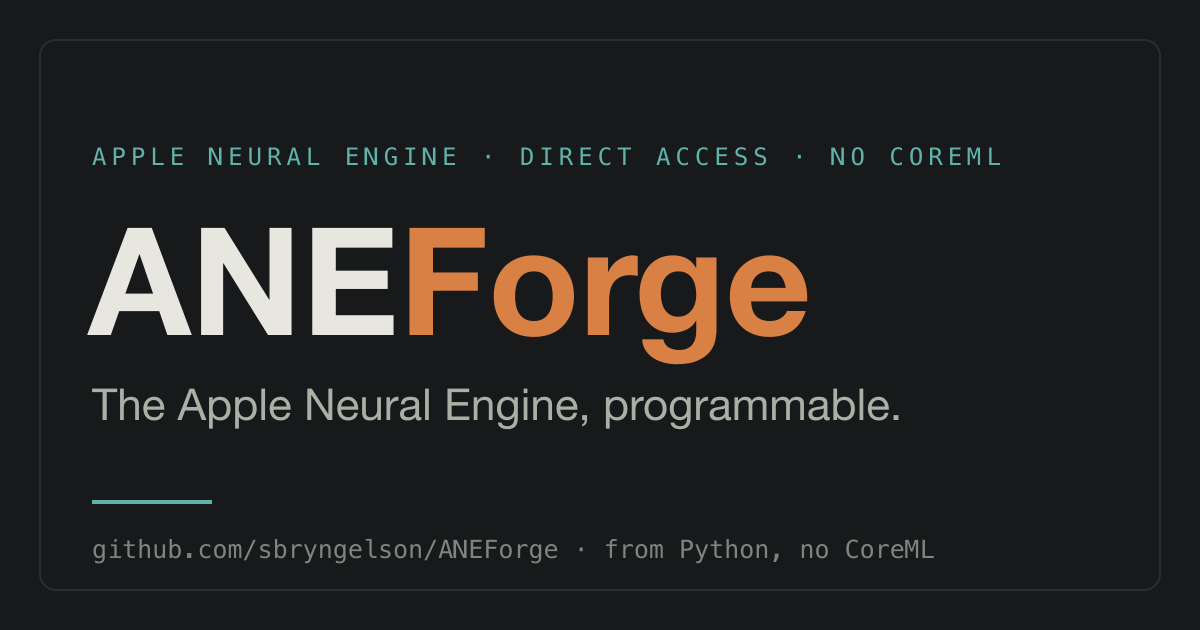
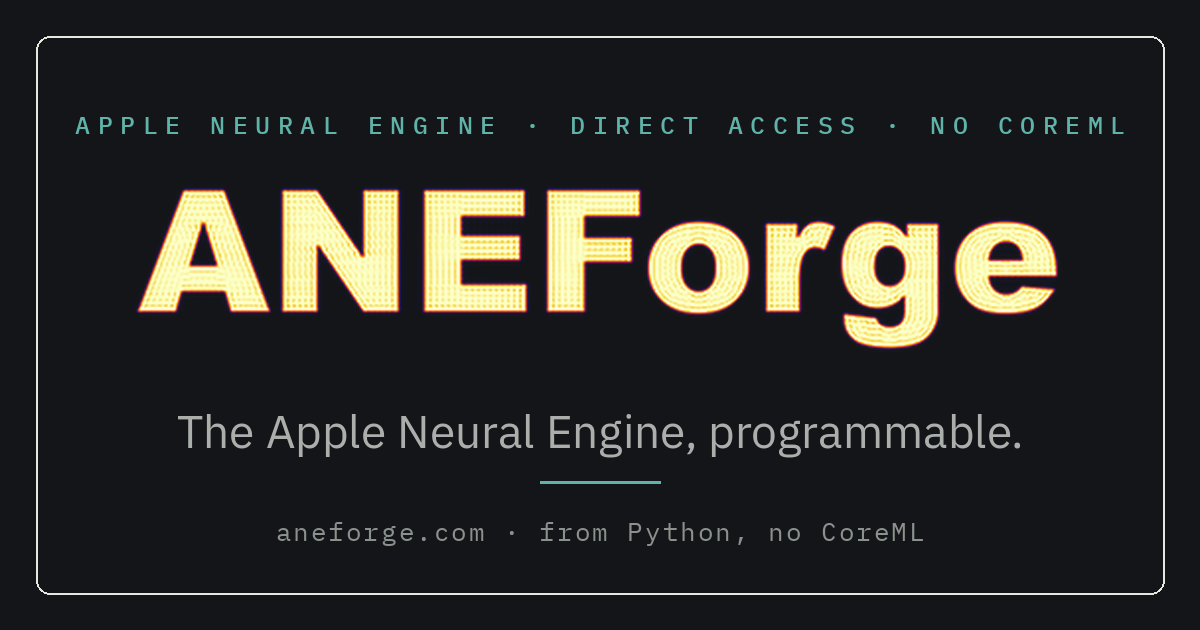
web: design polish — demos first, plasma OG card, numbered sections, in-page nav (#68)
* web: design polish pass

- Demos promoted to the first section after the hero: the animations are the
  proof-of-claim and were buried at position 5 of 6. Narrative is now
  show -> explain -> compare -> benchmark -> artifacts -> install.
- Section labels numbered (01-06) for wayfinding; sections alternate a
  slightly lighter tint so the scroll has rhythm.
- Header nav gains in-page links (Demos / MLPerf / Install); the external
  links (GitHub, Paper, Docs, Guide) are grouped behind a separator and
  marked with a small NE arrow.
- OG card rebuilt around the fluid demo's opening frame: the ANEForge
  wordmark rendered in plasma, computed on the engine itself.
- prefers-reduced-motion users get static first-frame posters via <picture>
  (no JS); gallery imgs carry width/height so the layout never shifts.
- Hover states for the door and demo cards; --faint bumped one step for AA
  contrast at label sizes.

* web: fix demo image aspect (height:auto) and drop the reduced-motion posters

The width/height attributes I added for layout stability collided with the
existing width:100% rule: CSS overrode the width hint but not the height
hint, so the gallery images rendered squashed to a fixed pixel height.
height:auto restores the intrinsic ratio (and keeps the no-shift benefit).

The prefers-reduced-motion poster fallback is removed outright: these
animations are the content being demonstrated, not decorative motion, and
[…]

diff --git a/web/index.html b/web/index.html
@@ -27,7 +27,7 @@
 <link href="https://fonts.googleapis.com/css2?family=IBM+Plex+Mono:wght@400;500;600&family=IBM+Plex+Sans:wght@400;500;600;700&display=swap" rel="stylesheet">
 <style>
   :root{
-    --bg:#17191b; --panel:#212427; --ink:#e7e6df; --soft:#abafac; --faint:#7f8480;
+    --bg:#17191b; --bg-alt:#1a1d20; --panel:#212427; --ink:#e7e6df; --soft:#abafac; --faint:#8b918c;
     --sea:#5fb3a8; --sea-deep:#7ec9bd; --rust:#d98044;
     --line:rgba(231,230,223,.16); --line-soft:rgba(231,230,223,.08);
     --code-fg:#d6dbd9; --btn:#2e6b69; --btn-deep:#245350;
@@ -53,10 +53,12 @@
   .brand{font-family:var(--mono); font-weight:600; font-size:1.02rem; color:var(--ink)}
   .brand b{color:var(--rust); font-weight:600}
   .brand:hover{text-decoration:none}
-  nav{display:flex; gap:24px; align-items:center; font-size:.9rem}
+  nav{display:flex; gap:20px; align-items:center; font-size:.9rem}
   nav a{color:var(--soft); font-weight:500}
   nav a:hover{color:var(--sea); text-decoration:none}
-  @media(max-width:560px){nav a.hide{display:none}}
+  nav a sup{font-size:.6em; color:var(--faint); margin-left:1px}
+  .navsep{width:1px; height:15px; background:var(--line)}
+  @media(max-width:680px){nav a.hide{display:none} .navsep{display:none}}
 
   .hero{padding:74px 0 60px; border-bottom:1px solid var(--line)}
   .hero .label{display:block; margin-bottom:20px}
@@ -89,13 +91,15 @@
   .glance .row span{white-space:nowrap}
 
   section{padding:58px 0; border-bottom:1px solid var(--line)}
+  main>section:nth-of-type(even){background:var(--bg-alt)}   /* alternating tint: gives the scroll a rhythm */
   h2{font-weight:600; font-size:1.5rem; letter-spacing:-.01em; max-width:24ch}
   .sub{color:var(--soft); max-width:62ch; margin-top:12px}
   .sub code{font-family:var(--mono); font-size:.9em; color:var(--sea-deep)}
 
   .trio{display:grid; grid-template-columns:repeat(3,1fr); gap:0; margin-top:34px; border:1px solid var(--line); border-radius:5px; overflow:hidden}
   @media(max-width:720px){.trio{grid-template-columns:1fr}}
-  .door{padding:24px 22px; border-right:1px solid var(--line)}
+  .door{padding:24px 22px; border-right:1px solid var(--line); transition:background .15s}
+  .door:hover{background:#262a2d}
   .door:last-child{border-right:0}
   @media(max-width:720px){.door{border-right:0; border-bottom:1px solid var(--line)} .door:last-child{border-bottom:0}}
   .door .k{font-family:var(--mono); font-size:.7rem; text-transform:uppercase; letter-spacing:.1em; color:var(--sea)}
@@ -104,8 +108,9 @@
   .door a.go{font-family:var(--mono); font-size:.8rem; display:inline-block; margin-top:14px}
   .door a.go + a.go{margin-left:20px}
 
-  .caps{margin-top:30px; display:grid; grid-template-columns:1fr 1fr; gap:26px 40px}
-  @media(max-width:680px){.caps{grid-template-columns:1fr; gap:22px}}
+  .caps{margin-top:30px; columns:2; column-gap:40px}   /* balanced columns: items pack, no row-height coupling */
+  .cap{break-inside:avoid; margin-bottom:24px}
+  @media(max-width:680px){.caps{columns:1}}
   .cap h4{font-size:1rem; font-weight:600}
   .cap h4 em{font-style:normal; font-family:var(--mono); font-size:.85em; color:var(--rust); font-weight:500; margin-left:8px}
   .cap p{color:var(--soft); font-size:.92rem; margin-top:5px}
@@ -125,8 +130,9 @@
 
   .gallery{display:grid; grid-template-columns:repeat(3,1fr); gap:22px; margin-top:34px}
   @media(max-width:720px){.gallery{grid-template-columns:1fr; gap:26px}}
-  .demo{border:1px solid var(--line); border-radius:5px; overflow:hidden; background:var(--panel); display:flex; flex-direction:column}
-  .demo img{width:100%; display:block; border-bottom:1px solid var(--line-soft)}
+  .demo{border:1px solid var(--line); border-radius:5px; overflow:hidden; background:var(--panel); display:flex; flex-direction:column; transition:border-color .15s}
+  .demo:hover{border-color:rgba(95,179,168,.45)}
+  .demo img{width:100%; height:auto; display:block; border-bottom:1px solid var(--line-soft)}
   .demo figcaption{padding:16px 18px}
   .demo h3{font-size:1.02rem; font-weight:600; margin-bottom:6px}
   .demo p{color:var(--soft); font-size:.86rem}
@@ -153,10 +159,14 @@
   <div class="wrap bar">
     <a class="brand" href="#top">ANE<b>Forge</b></a>
     <nav>
-      <a href="https://ane-guide.readthedocs.io">Guide</a>
-      <a href="https://arxiv.org/abs/2606.17090">Paper</a>
-      <a href="https://github.com/sbryngelson/ANEForge">GitHub</a>
-      <a href="https://aneforge.readthedocs.io">Docs</a>
+      <a href="#demos">Demos</a>
+      <a href="#mlperf" class="hide">MLPerf</a>
+      <a href="#install">Install</a>
+      <span class="navsep"></span>
+      <a href="https://github.com/sbryngelson/ANEForge">GitHub<sup>&#8599;</sup></a>
+      <a href="https://arxiv.org/abs/2606.17090" class="hide">Paper<sup>&#8599;</sup></a>
+      <a href="https://aneforge.readthedocs.io" class="hide">Docs<sup>&#8599;</sup></a>
+      <a href="https://ane-guide.readthedocs.io" class="hide">Guide<sup>&#8599;</sup></a>
     </nav>
   </div>
 </header>
@@ -202,37 +212,42 @@ vec = <span class="af">enc</span>(tokens)                 <span class="c"># cosi
     </div>
   </div>
 
-  <section id="project">
+  <section id="demos">
     <div class="wrap">
-      <span class="label">Software, paper, guide</span>
-      <h2 style="margin-top:10px">The package, the paper behind it, and a guide to the engine.</h2>
-      <div class="trio">
-        <div class="door">
-          <div class="k">Software · MIT Licensed</div>
-          <h3>ANEForge</h3>
-          <p>The Python package. Build a graph, compile it to one ANE program, then run or train it. It handles quantized weights, native attention, resident state, and cross-compilation for 28 targets.</p>
-          <a class="go" href="https://github.com/sbryngelson/ANEForge">GitHub →</a>
-          <a class="go" href="https://aneforge.readthedocs.io">Docs →</a>
-        </div>
-        <div class="door">
-          <div class="k">arXiv · preprint</div>
-          <h3>The paper</h3>
-          <p>“Python for direct computation on the Apple Neural Engine.” The preprint behind the numbers on this page, with the dispatch path and the validation against reference in full.</p>
-          <a class="go" href="https://arxiv.org/abs/2606.17090">arXiv →</a>
-        </div>
-        <div class="door">
-          <div class="k">Book · web edition</div>
-          <h3>The guide</h3>
-          <p>A reverse-engineering account of the engine: the datapath, the compiler, the program format, the firmware, the kernel driver, and the cross-silicon target tables. Most of it is undocumented by Apple.</p>
-          <a class="go" href="https://ane-guide.readthedocs.io">Read →</a>
-        </div>
+      <span class="label">01 · Demos</span>
+      <h2 style="margin-top:10px">Simulations and learning, run and trained on the engine.</h2>
+      <p class="sub">Not just neural nets. Each of these compiles to ANE programs and runs end to end on the Neural Engine.</p>
+      <div class="gallery">
+        <figure class="demo">
+          <img src="./assets/fluid_vorticity.webp" width="512" height="512" alt="A passive dye shaped as the word ANEForge stirred into glowing filaments by a fluid simulation on the Apple Neural Engine" loading="lazy">
+          <figcaption>
+            <h3>Fluid simulation</h3>
+            <p>A dye painted as the word ANEForge, stirred by a 2-D incompressible Navier–Stokes flow. Every FFT in the pseudo-spectral loop runs on the engine, about 54 J at the 1.48 W rail.</p>
+            <a class="go" href="https://github.com/sbryngelson/ANEForge/blob/main/examples/fluid_vorticity.py">reproduce →</a>
+          </figcaption>
+        </figure>
+        <figure class="demo">
+          <img src="./assets/reaction_diffusion.webp" width="384" height="384" alt="A Gray-Scott reaction-diffusion system grown from the word ANEForge into a branching labyrinth on the Apple Neural Engine" loading="lazy">
+          <figcaption>
+            <h3>Reaction-diffusion</h3>
+            <p>Gray–Scott Turing patterns bloom from the word into a branching labyrinth. One program re-dispatches each step: a 3×3 Laplacian as a native ANE conv, the reactions as elementwise ops.</p>
+            <a class="go" href="https://github.com/sbryngelson/ANEForge/blob/main/examples/reaction_diffusion.py">reproduce →</a>
+          </figcaption>
+        </figure>
+        <figure class="demo">
+          <img src="./assets/neural_ca.webp" width="384" height="384" alt="A neural cellular automaton, trained on the Apple Neural Engine, grows a lizard from a single seed pixel" loading="lazy">
+          <figcaption>
+            <h3>A network that grows</h3>
+            <p>A small CNN update rule, trained on the engine, grows a lizard from one seed pixel. The forward and backward passes both run on the ANE, so the rule is learned there, not just replayed.</p>
+            <a class="go" href="https://github.com/sbryngelson/ANEForge/blob/main/examples/train_neural_ca.py">reproduce →</a>
+          </figcaption>
+        </figure>
       </div>
     </div>
   </section>
-
   <section id="what">
     <div class="wrap">
-      <span class="label">What it does</span>
+      <span class="label">02 · What it does</span>
       <h2 style="margin-top:10px">Training, LLMs, native layers, compression, and more.</h2>
       <p class="sub">Apple exposes the Neural Engine only through CoreML, and only for inference. ANEForge dispatches through the same private <code>aned</code> stack that CoreML uses internally, from a normal user process.</p>
       <div class="caps">
@@ -267,10 +282,9 @@ vec = <span class="af">enc</span>(tokens)                 <span class="c"># cosi
       </div>
     </div>
   </section>
-
   <section id="compare">
     <div class="wrap">
-      <span class="label">How it compares</span>
+      <span class="label">03 · How it compares</span>
       <h2 style="margin-top:10px">CoreML is the only public route to the engine, and all it decides is whether to use it.</h2>
       <div class="tablewrap">
         <table>
@@ -285,10 +299,9 @@ vec = <span class="af">enc</span>(tokens)                 <span class="c"># cosi
       <p class="caption" style="max-width:none">ANEForge compiles to the engine from an ordinary user process, with no entitlement and no SIP changes.</p>
     </div>
   </section>
-
   <section id="mlperf">
     <div class="wrap">
-      <span class="label">MLPerf</span>
+      <span class="label">04 · MLPerf</span>
       <h2 style="margin-top:10px; max-width:none">Where it lands:<br>the reference ResNet-50 against official MLPerf.</h2>
       <p class="sub">The MLPerf reference ResNet-50 on the engine, next to official MLPerf Inference results. Every competitor number is sourced to a public <code>mlcommons/inference_results</code> submission; the ANE row is unofficial and self-measured.</p>
       <div class="tablewrap">
@@ -319,44 +332,36 @@ vec = <span class="af">enc</span>(tokens)                 <span class="c"># cosi
       <p class="caption" style="max-width:none">Passes the upstream MLCommons <code>submission_checker</code> (v5.1, all three edge scenarios VALID) at fp16 76.44% top-1, equal to fp32. On SingleStream latency the ANE is within ~1.2× of the Jetson AGX Orin at a fraction of the power; on Offline throughput it trails, because the program is batch-1 and compute-bound — at ~10 TFLOP/s it sits on the engine's applicable roofline. Power class is a device power envelope, not a MLPerf Power measurement. Sourced from <code>mlcommons/inference_results_v3.1</code> (Orin) and <code>v4.0</code> (H100).</p>
     </div>
   </section>
-
-  <section id="demos">
+  <section id="project">
     <div class="wrap">
-      <span class="label">Demos</span>
-      <h2 style="margin-top:10px">Simulations and learning, run and trained on the engine.</h2>
-      <p class="sub">Not just neural nets. Each of these compiles to ANE programs and runs end to end on the Neural Engine.</p>
-      <div class="gallery">
-        <figure class="demo">
-          <img src="./assets/fluid_vorticity.webp" alt="A passive dye shaped as the word ANEForge stirred into glowing filaments by a fluid simulation on the Apple Neural Engine" loading="lazy">
-          <figcaption>
-            <h3>Fluid simulation</h3>
-            <p>A dye painted as the word ANEForge, stirred by a 2-D incompressible Navier–Stokes flow. Every FFT in the pseudo-spectral loop runs on the engine, about 54 J at the 1.48 W rail.</p>
-            <a class="go" href="https://github.com/sbryngelson/ANEForge/blob/main/examples/fluid_vorticity.py">reproduce →</a>
-          </figcaption>
-        </figure>
-        <figure class="demo">
-          <img src="./assets/reaction_diffusion.webp" alt="A Gray-Scott reaction-diffusion system grown from the word ANEForge into a branching labyrinth on the Apple Neural Engine" loading="lazy">
-          <figcaption>
-            <h3>Reaction-diffusion</h3>
-            <p>Gray–Scott Turing patterns bloom from the word into a branching labyrinth. One program re-dispatches each step: a 3×3 Laplacian as a native ANE conv, the reactions as elementwise ops.</p>
-            <a class="go" href="https://github.com/sbryngelson/ANEForge/blob/main/examples/reaction_diffusion.py">reproduce →</a>
-          </figcaption>
-        </figure>
-        <figure class="demo">
-          <img src="./assets/neural_ca.webp" alt="A neural cellular automaton, trained on the Apple Neural Engine, grows a lizard from a single seed pixel" loading="lazy">
-          <figcaption>
-            <h3>A network that grows</h3>
-            <p>A small CNN update rule, trained on the engine, grows a lizard from one seed pixel. The forward and backward passes both run on the ANE, so the rule is learned there, not just replayed.</p>
-            <a class="go" href="https://github.com/sbryngelson/ANEForge/blob/main/examples/train_neural_ca.py">reproduce →</a>
-          </figcaption>
-        </figure>
+      <span class="label">05 · Software, paper, guide</span>
+      <h2 style="margin-top:10px">The package, the paper behind it, and a guide to the engine.</h2>
+      <div class="trio">
+        <div class="door">
+          <div class="k">Software · MIT Licensed</div>
+          <h3>ANEForge</h3>
+          <p>The Python package. Build a graph, compile it to one ANE program, then run or train it. It handles quantized weights, native attention, resident state, and cross-compilation for 28 targets.</p>
+          <a class="go" href="https://github.com/sbryngelson/ANEForge">GitHub →</a>
+          <a class="go" href="https://aneforge.readthedocs.io">Docs →</a>
+        </div>
+        <div class="door">
+          <div class="k">arXiv · preprint</div>
+          <h3>The paper</h3>
+          <p>“Python for direct computation on the Apple Neural Engine.” The preprint behind the numbers on this page, with the dispatch path and the validation against reference in full.</p>
+          <a class="go" href="https://arxiv.org/abs/2606.17090">arXiv →</a>
+        </div>
+        <div class="door">
+          <div class="k">Book · web edition</div>
+          <h3>The guide</h3>
+          <p>A reverse-engineering account of the engine: the datapath, the compiler, the program format, the firmware, the kernel driver, and the cross-silicon target tables. Most of it is undocumented by Apple.</p>
+          <a class="go" href="https://ane-guide.readthedocs.io">Read →</a>
+        </div>
       </div>
     </div>
   </section>
-
   <section id="install" class="install">
     <div class="wrap">
-      <span class="label">Get started</span>
+      <span class="label">06 · Get started</span>
       <h2 style="margin-top:10px; max-width:none; white-space:nowrap">Apple Silicon, macOS 14+, Python 3.10+.</h2>
       <div class="cmd"><span class="p">$ </span>pip install aneforge</div>
       <p class="note">The <code>e5rt</code> dispatch shim builds against Apple frameworks on first use. Then browse <code>examples/</code>, starting with the quickstart.</p>
